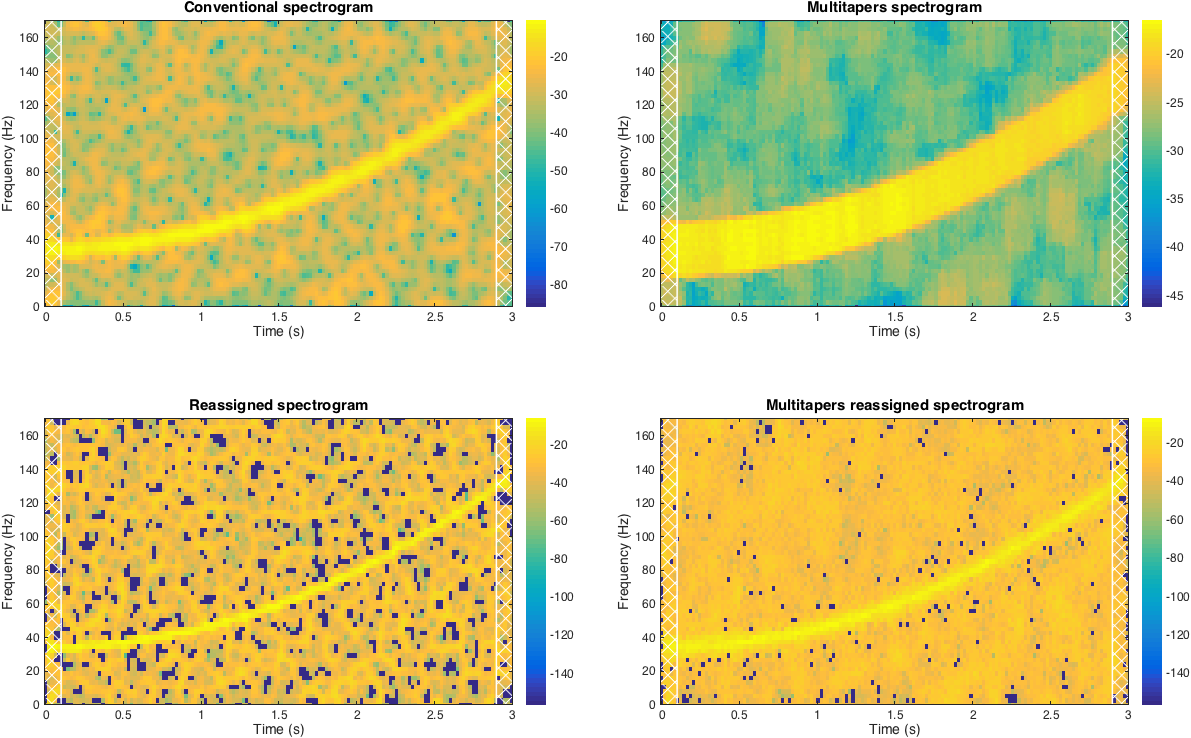
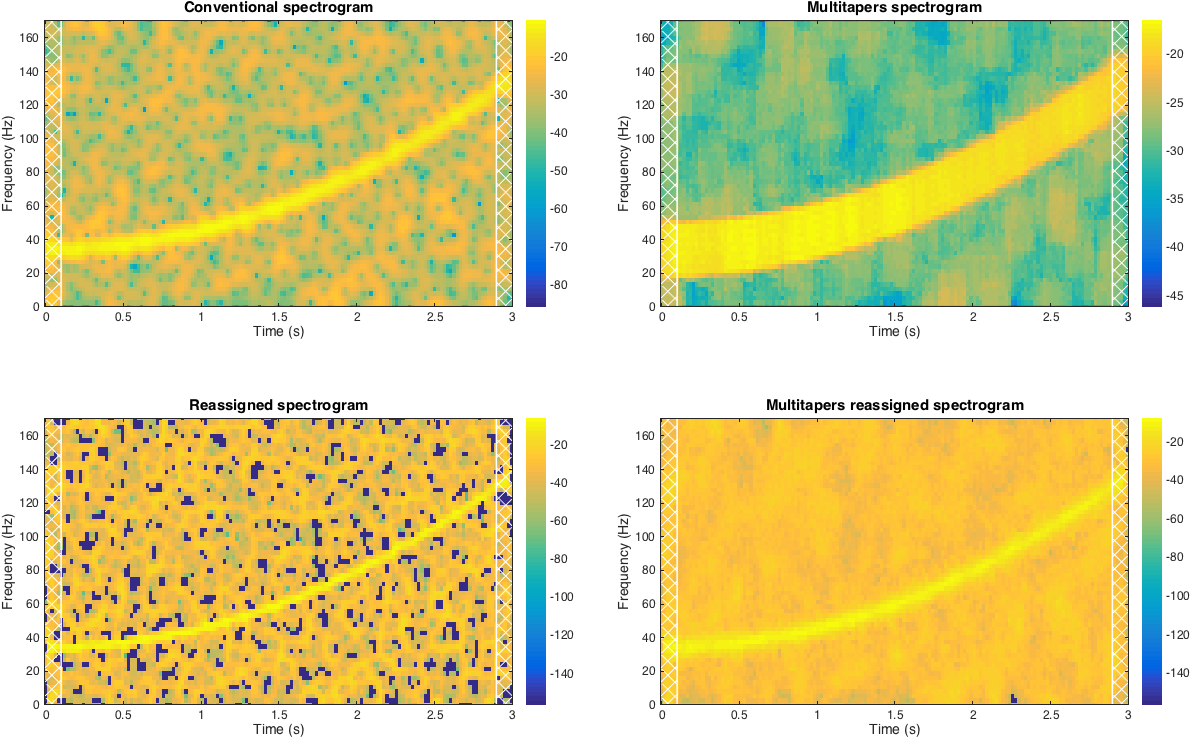
added interpolation for multitapers in the example

diff --git a/examples/ex_chirp.m b/examples/ex_chirp.m
@@ -24,7 +24,7 @@ tapers = [3.5, 6];            % tapers for multitaper NW = 3.5; K = 6
 % - padd with zeros on both sides of the signal;
 % - mean averaging of tapers;
 % - interpolate reassigned points for spectrogram (to cover the "holes").
-optsMulti = struct('psd',1,'pad','zeros','mean','mean');
+optsMulti = struct('psd',1,'pad','zeros','mean','mean','interp',1);
 optsSpec  = struct('psd',1,'pad','zeros','interp',1);
 
 % time-freuqency representations
